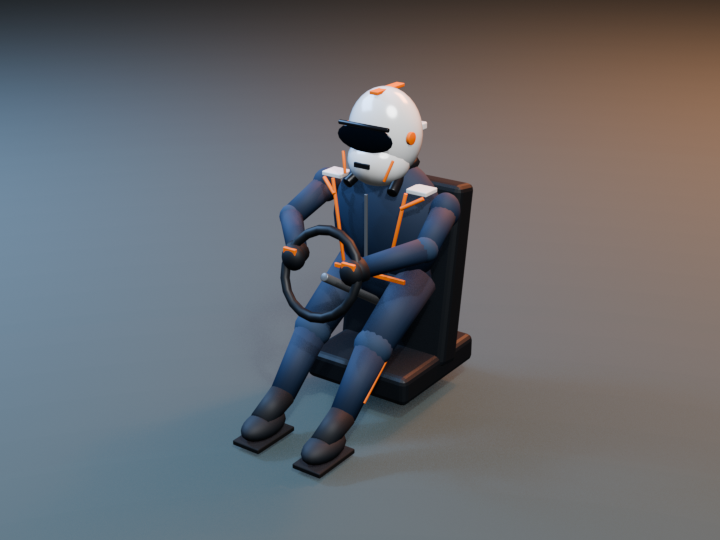
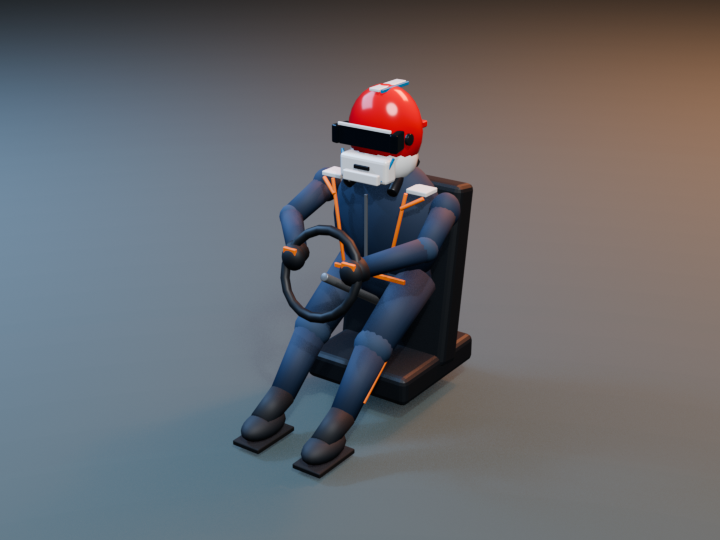
Redesign standard driver helmet

Changed region(s): [[0.4583, 0.1481, 0.6111, 0.3852]]

diff --git a/tools/blender/generators/generate_drivers.py b/tools/blender/generators/generate_drivers.py
@@ -74,31 +74,48 @@ def make_standard_driver(torso, head, arm_l, arm_r, leg_l, leg_r, mats):
             (side * 0.105, -0.123, 0.258), 0.022,
             mats["hans"], torso)
 
-    # Full-face carbon-style helmet. The curved smoke visor, narrow eyeport,
-    # deep chin section, pivot hardware and rear aero lip reproduce the modern
-    # Formula silhouette without copying a driver's personal graphics.
-    sphere("helmet_shell", (0, 0.004, 0.105), (0.150, 0.132, 0.178),
-           mats["helmet"], head, 28, 18)
-    sphere("helmet_chin_guard", (0, -0.037, 0.006),
-           (0.126, 0.116, 0.100), mats["helmet"], head, 22, 12)
-    sphere("helmet_visor", (0, -0.132, 0.113),
-           (0.126, 0.012, 0.055), mats["visor"], head, 24, 10)
-    bar("visor_reinforcement", (-0.112, -0.139, 0.161),
-        (0.112, -0.139, 0.161), 0.009, mats["visor_trim"], head)
-    cube("helmet_center_stripe", (0, 0.015, 0.273),
-         (0.038, 0.185, 0.014), mats["accent"], head, 0.006)
-    cube("helmet_rear_spoiler", (0, 0.128, 0.118),
-         (0.205, 0.035, 0.030), mats["helmet"], head, 0.008)
-    cube("helmet_chin_intake", (0, -0.151, 0.010),
-         (0.070, 0.010, 0.020), mats["visor_trim"], head, 0.004)
+    # Full-face Formula helmet based on the reference's construction: a glossy
+    # domed crown, a separate light lower shell, a broad wraparound visor and
+    # an angular chin bar. Graphics remain generic and sponsor-free.
+    sphere("helmet_shell", (0, 0.005, 0.115), (0.150, 0.132, 0.178),
+           mats["helmet_red"], head, 22, 14)
+    sphere("helmet_lower_shell", (0, -0.002, 0.018),
+           (0.138, 0.120, 0.122), mats["helmet_white"], head, 18, 10)
+    cube("helmet_chin_guard", (0, -0.112, -0.005),
+         (0.218, 0.072, 0.098), mats["helmet_white"], head, 0.022)
+    cube("helmet_chin_lip", (0, -0.153, -0.034),
+         (0.160, 0.025, 0.040), mats["helmet_white"], head, 0.010)
+
+    # A flat central pane plus angled side panes reads as one wide curved visor
+    # instead of the floating black eye mask used by the previous model.
+    front_visor = cube("helmet_visor", (0, -0.129, 0.112),
+                       (0.232, 0.012, 0.074), mats["visor"], head, 0.013)
+    front_visor.rotation_euler.x = math.radians(-3)
+    visor_strip = cube("visor_reinforcement", (0, -0.136, 0.154),
+                       (0.238, 0.010, 0.012), mats["helmet_white"], head, 0.003)
+    visor_strip.rotation_euler.x = math.radians(-3)
     for side in (-1, 1):
-        cylinder(f"helmet_hinge_{side:+}", (side * 0.143, -0.035, 0.113),
-                 0.025, 0.014, mats["accent"], head,
+        side_visor = cube(f"helmet_visor_side_{side:+}",
+                          (side * 0.126, -0.104, 0.111),
+                          (0.032, 0.082, 0.072), mats["visor"], head, 0.010)
+        side_visor.rotation_euler.z = side * math.radians(13)
+        cylinder(f"helmet_hinge_{side:+}", (side * 0.145, -0.050, 0.112),
+                 0.023, 0.014, mats["visor_trim"], head,
                  rotation=(0, math.pi / 2, 0), vertices=16, bevel=0.003)
         bar(f"helmet_cheek_line_{side:+}",
-            (side * 0.115, -0.112, 0.040),
-            (side * 0.090, -0.135, -0.040), 0.006,
-            mats["accent"], head)
+            (side * 0.118, -0.112, 0.050),
+            (side * 0.086, -0.144, -0.040), 0.006,
+            mats["helmet_blue"], head)
+    cube("helmet_center_stripe", (0, 0.020, 0.284),
+         (0.044, 0.185, 0.012), mats["helmet_white"], head, 0.005)
+    cube("helmet_crown_accent", (0.032, 0.020, 0.282),
+         (0.010, 0.180, 0.014), mats["helmet_blue"], head, 0.004)
+    cube("helmet_rear_spoiler", (0, 0.130, 0.125),
+         (0.205, 0.032, 0.026), mats["helmet_red"], head, 0.007)
+    cube("helmet_chin_intake", (0, -0.153, 0.004),
+         (0.070, 0.010, 0.016), mats["visor_trim"], head, 0.003)
+    cube("helmet_vent_bank", (0, -0.159, -0.024),
+         (0.074, 0.008, 0.012), mats["visor_trim"], head, 0.002)
 
     # Tapered sleeves, subtle elbow folds and gauntlet gloves. Hands converge
     # on the common steering-wheel hard point shared by all five cars.
@@ -179,8 +196,12 @@ def build_driver(slug: str):
                            metallic=0.38, roughness=0.34),
         "hans": material(f"{slug}_hans", (0.010, 0.012, 0.016, 1),
                          roughness=0.32),
-        "helmet": material(f"{slug}_helmet", (0.88, 0.90, 0.91, 1),
-                           metallic=0.08, roughness=0.19),
+        "helmet_red": material(f"{slug}_helmet_red", (0.72, 0.012, 0.020, 1),
+                               metallic=0.06, roughness=0.16),
+        "helmet_white": material(f"{slug}_helmet_white", (0.88, 0.90, 0.91, 1),
+                                 metallic=0.05, roughness=0.20),
+        "helmet_blue": material(f"{slug}_helmet_blue", (0.015, 0.24, 0.50, 1),
+                                metallic=0.08, roughness=0.22),
         "visor": material(f"{slug}_visor", (0.006, 0.012, 0.020, 1),
                           metallic=0.45, roughness=0.08),
         "visor_trim": material(f"{slug}_visor_trim", (0.025, 0.028, 0.032, 1),